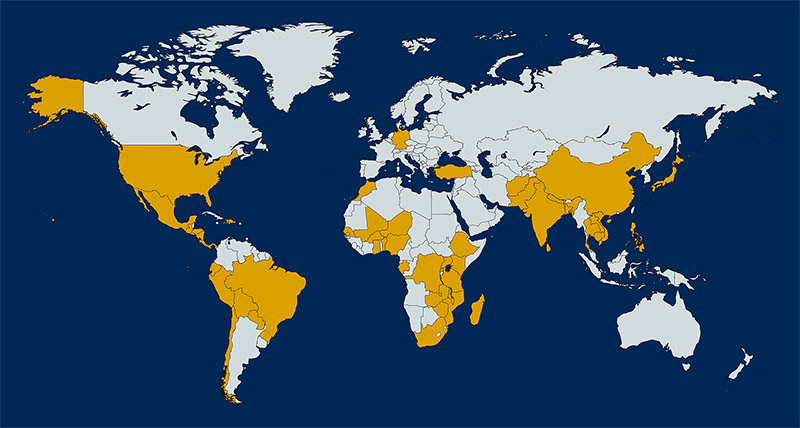
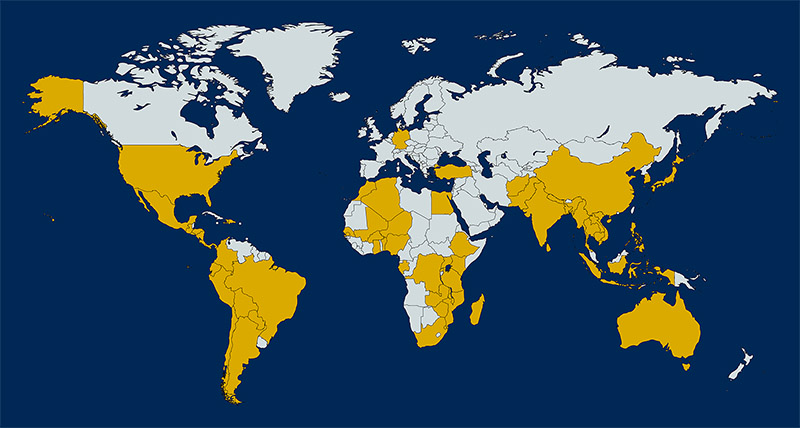
updating IPO Static Project Map

diff --git a/about/where-we-work.html b/about/where-we-work.html
@@ -7,7 +7,9 @@ search: true
 <article>
     <h1>{{ page.title }}</h1>
     <p class="lead">Through teaching, research, and community engagement, UC Davis is dedicated to solving critical 21st century challenges. By extending our agricultural expertise, we improve the quality of life throughout the world.</p>
-    <p><b>Team members in the CA&amp;ES International Programs Office have extension &amp; project experience in over 40 countries, including:</b> Afghanistan, Algeria, Argentina, Australia, Bangladesh, Cambodia, Chile, China, Colombia, Ecuador, Egypt, Ethiopia, Fiji, Guatemala, Honduras, India, Indonesia, Kenya, Kiribati, Laos, Madagascar, Mexico, Morocco, Myanmar, Nepal, Pakistan, Philippines, Repubilc of Korea, Sri Lanka, Swaziland, Thailand, Timor L'Este, Uganda, USA, Vietnam, Zambia</p>
+    <p><b>Team members in the CA&amp;ES International Programs Office have extension &amp; project experience in over 60 countries, including:</b> Afghanistan, Algeria, Argentina, Australia, Bangladesh, Benin, Bolivia, Brazil, Burkina Faso, Cambodia, Chile, China, Costa Rica, Democratic Republic of Congo, Dominican Republic, Colombia, Ecuador, El Salvador,
+      Egypt, Ethiopia, Gabon, Gambia, Ghana, Germany, Fiji, Guatemala, Haiti, Honduras, India, Japan, Indonesia, Kenya, Kiribati, Laos, Kenya, Madagascar, Malawi, Mali, Mexico, Morocco, Mozambique, Myanmar, Nepal, Nicaragua, Niger, Nigeria, Panama, Pakistan, Paraguay, Peru, Philippines, Rwanda, Senegal, South Africa, Republic of Korea, Sri Lanka, Tanzania,
+       Swaziland, Thailand, Turkey, Timor L'Este, Uganda, USA, Vietnam, Zambia, Zimbabwe</p>
 
     <div class="imagewrapper imagewrapper--fullwidth">
         <a href="#" data-featherlight="#mylightbox">
